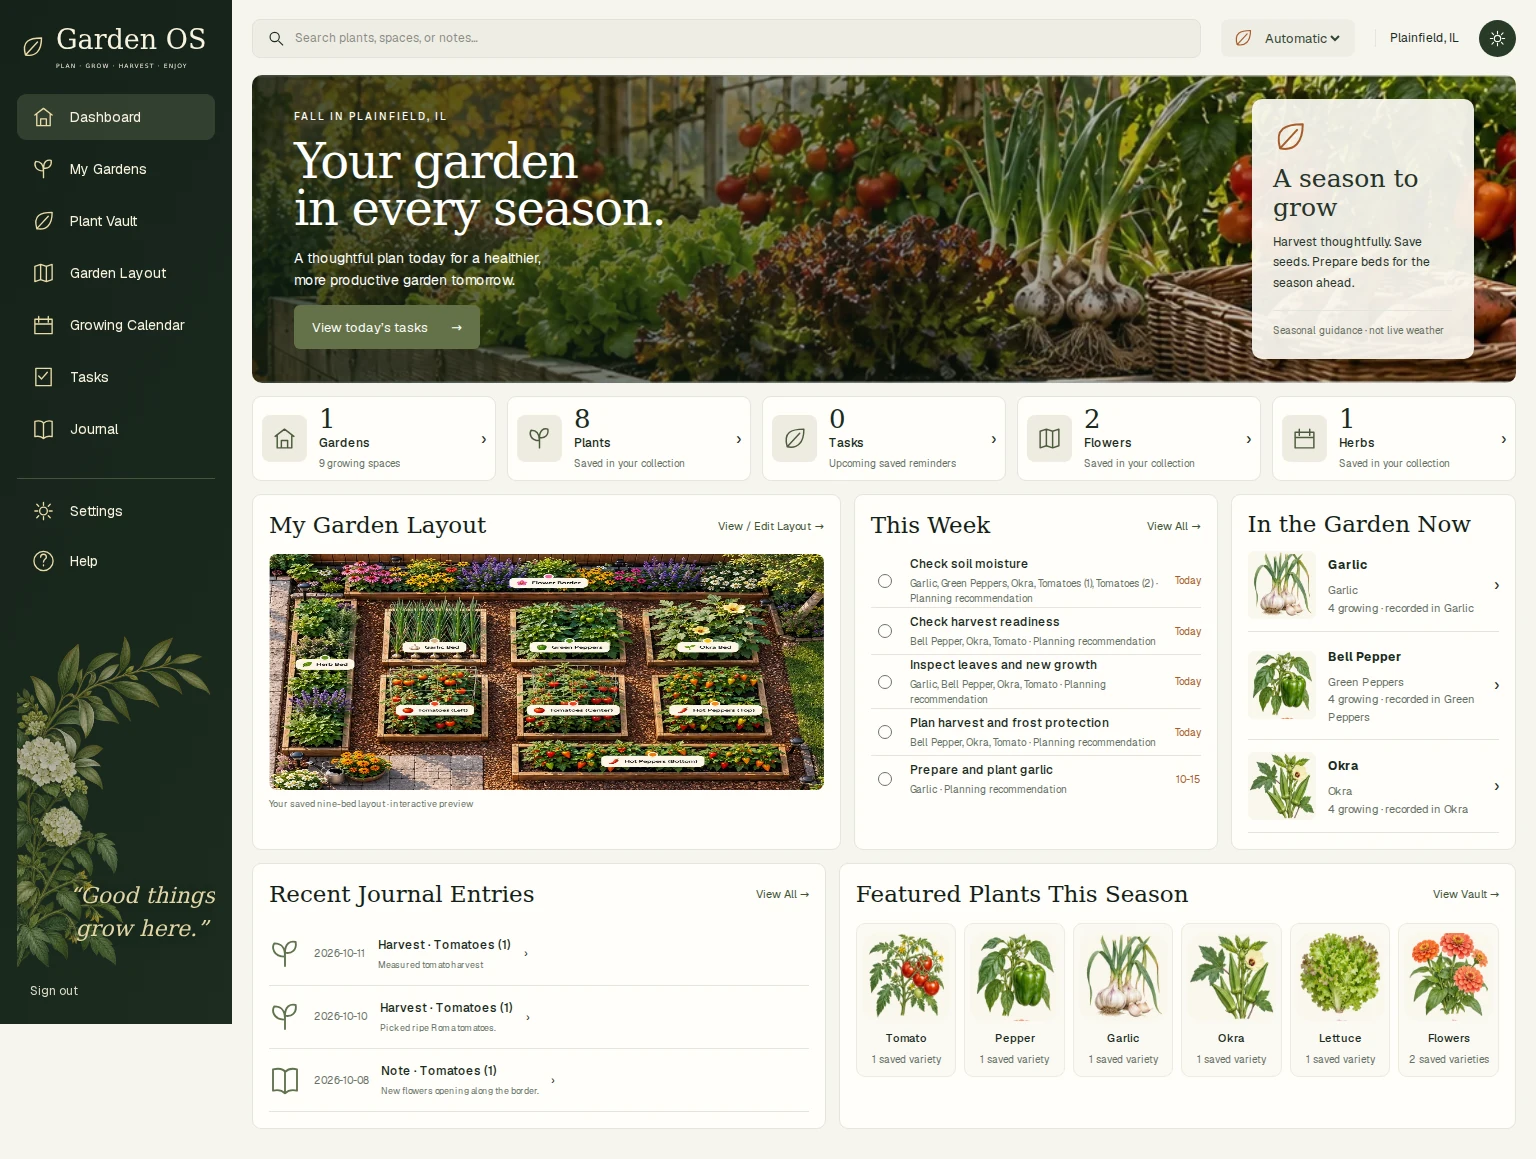
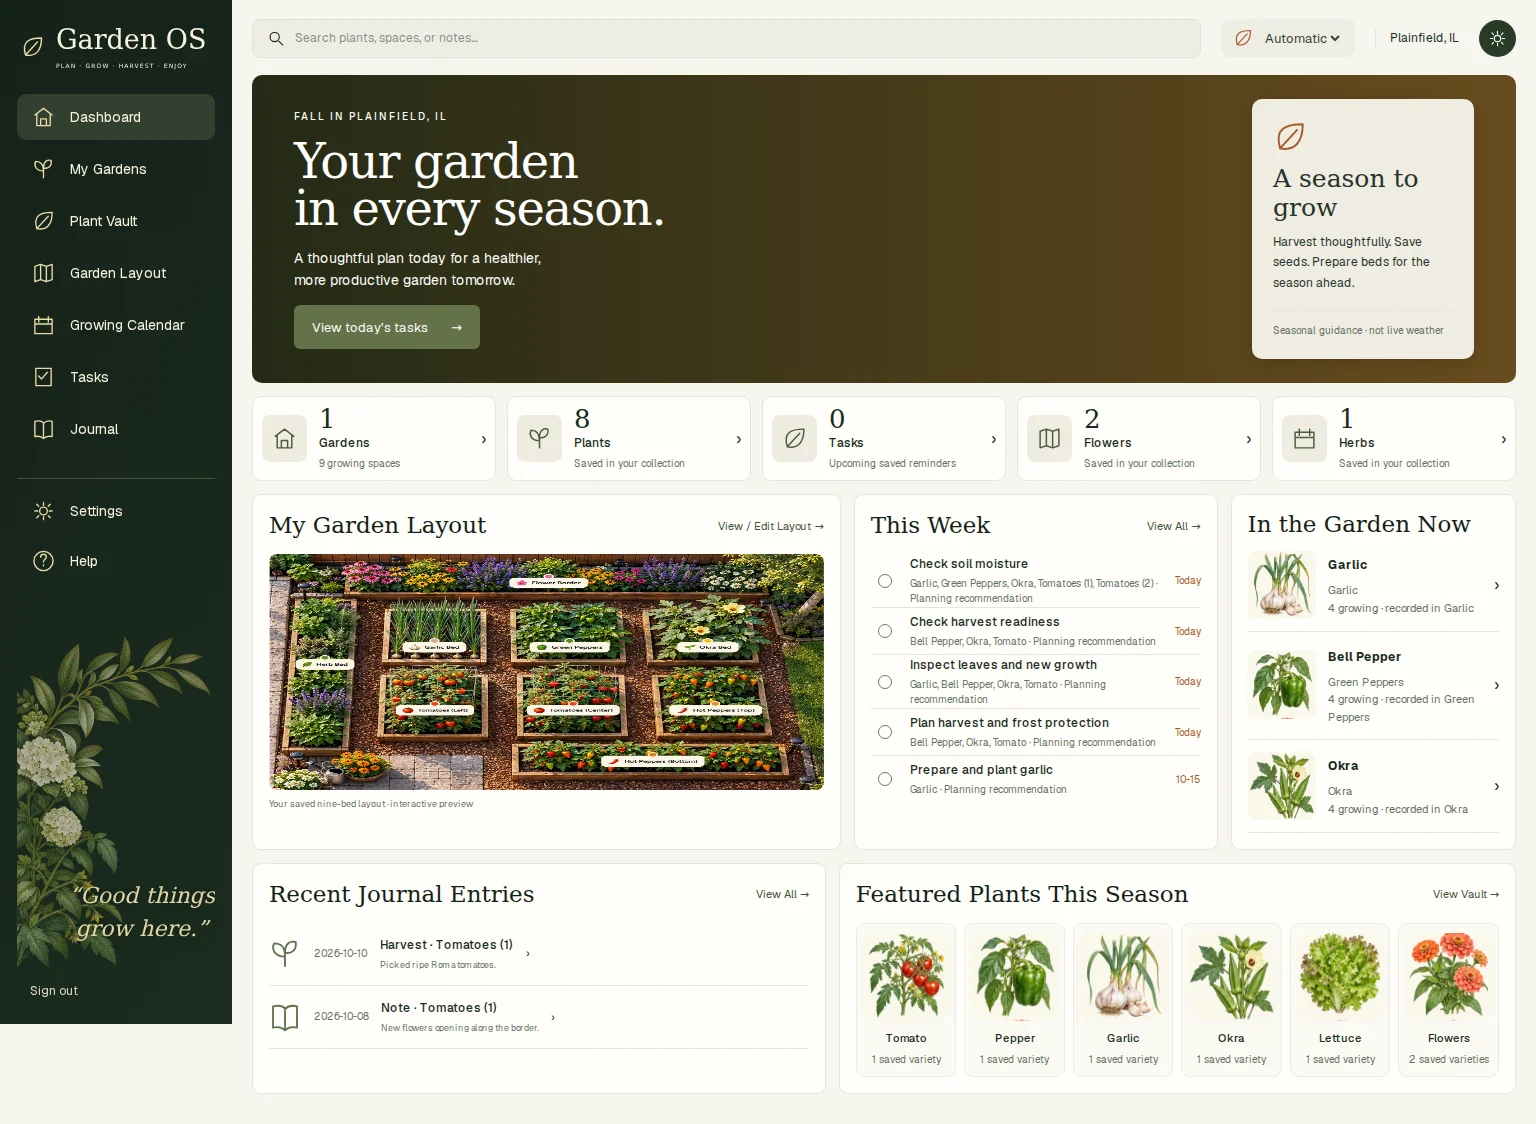
Verify deployed Conservatory and correct rescheduled reminder counts

diff --git a/components/ConservatoryUI.tsx b/components/ConservatoryUI.tsx
@@ -258,7 +258,10 @@ export function ModernDashboard({
       .map((p) => ({ ...p, space: s })),
   );
   const confirmed = (options.reminders ?? []).filter(
-    (r) => r.date >= today && !options.tasks[r.id]?.status,
+    (r) =>
+      (options.tasks[r.id]?.date || r.date) >= today &&
+      !options.tasks[r.id]?.status &&
+      vault.some((plant) => plant.id === r.plantId),
   );
   const category = (name: string) =>
     vault.filter((p) => p.category === name).length;

diff --git a/docs/MODERN_CONSERVATORY_REVIEW.md b/docs/MODERN_CONSERVATORY_REVIEW.md
@@ -26,6 +26,10 @@ Phone-push delivery retains its existing infrastructure. Vercel daily cron runs 
 
 Built-in image generation produced the vegetable conservatory hero, spring/fall/winter conservatory variations, the botanical plate, and the sidebar botanical ornament. Assets are persisted under `public/conservatory`. Prompts requested real tomato, pepper, lettuce, garlic and okra specimens; restrained complementary flowers; warm natural conservatory light; winter hardy greens and frost; fall sweet potatoes without pumpkins; no UI, text, cartoons or unrelated landscapes.
 
+### Recovered deployment verification
+
+The interrupted deployment succeeded at commit `fe535775`: Vercel READY, preview target only. Production remains on `69b34cd0`. The deployed frontend was opened and tested through authenticated Vercel preview access with isolated backend fixtures, never live garden writes. All nine destinations passed overflow checks at 320, 390, 768 and 1536px. Dashboard Axe WCAG A/AA checks returned zero violations; no browser application errors occurred. Desktop and mobile screenshots were visually reviewed against the supplied reference. Reminder statistics now use the saved rescheduled date and exclude reminders for removed vault records.
+
 ### Preview-origin data
 
 Browser storage is isolated by origin. The existing production browser data is not deleted or replaced by this preview. A newly opened preview cannot silently read vaults/layouts stored under the production domain. Vault backup import remains available; automatic migration of production-origin browser data runs when the approved release reaches that origin. Live cross-device completion therefore requires the additive schema and an approved migration/release or deliberate import of the original browser data.
